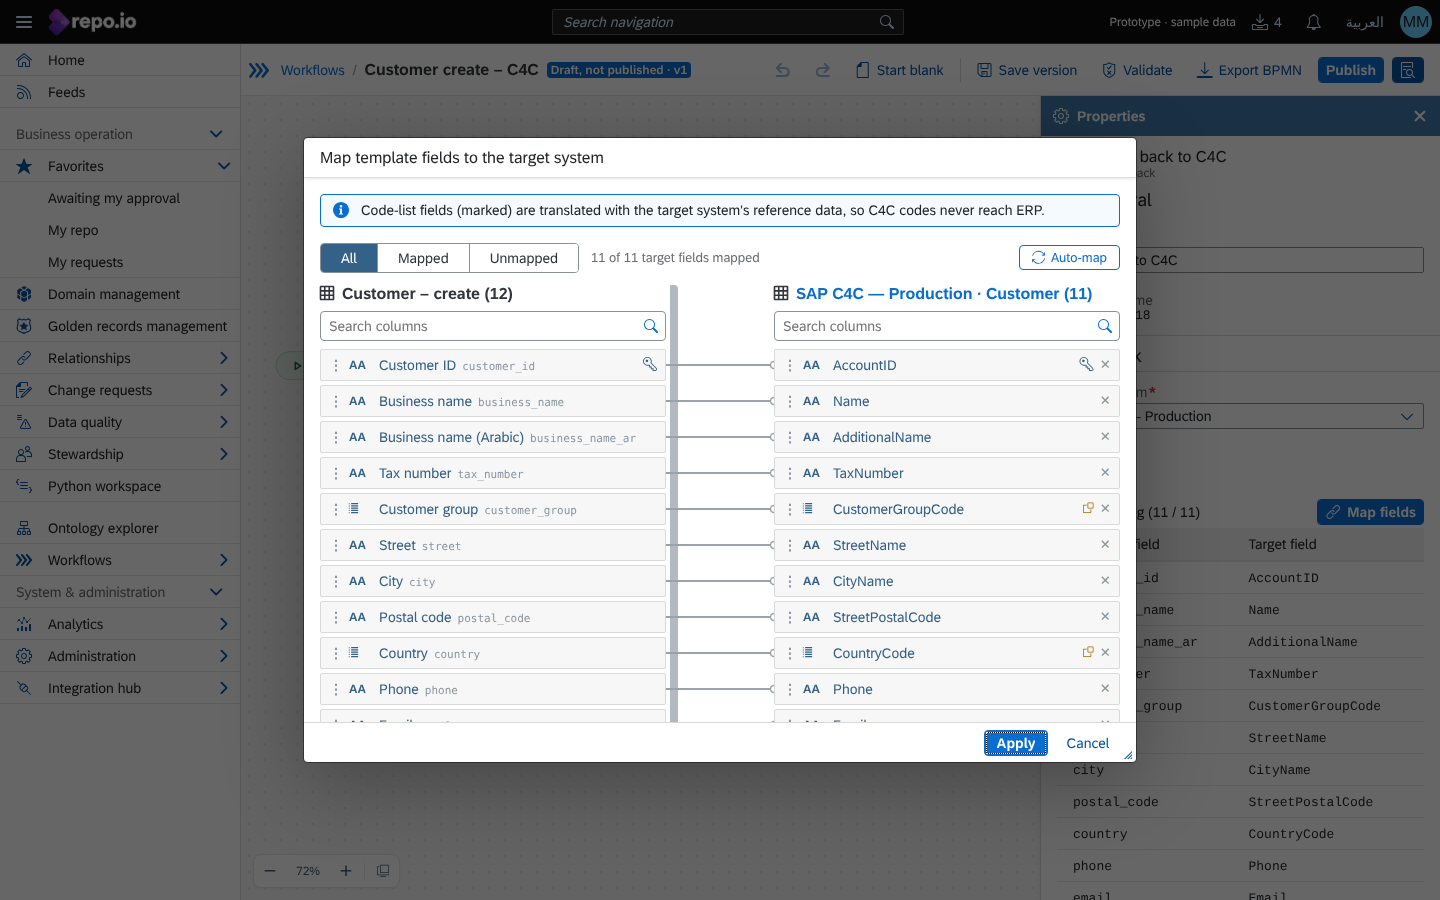
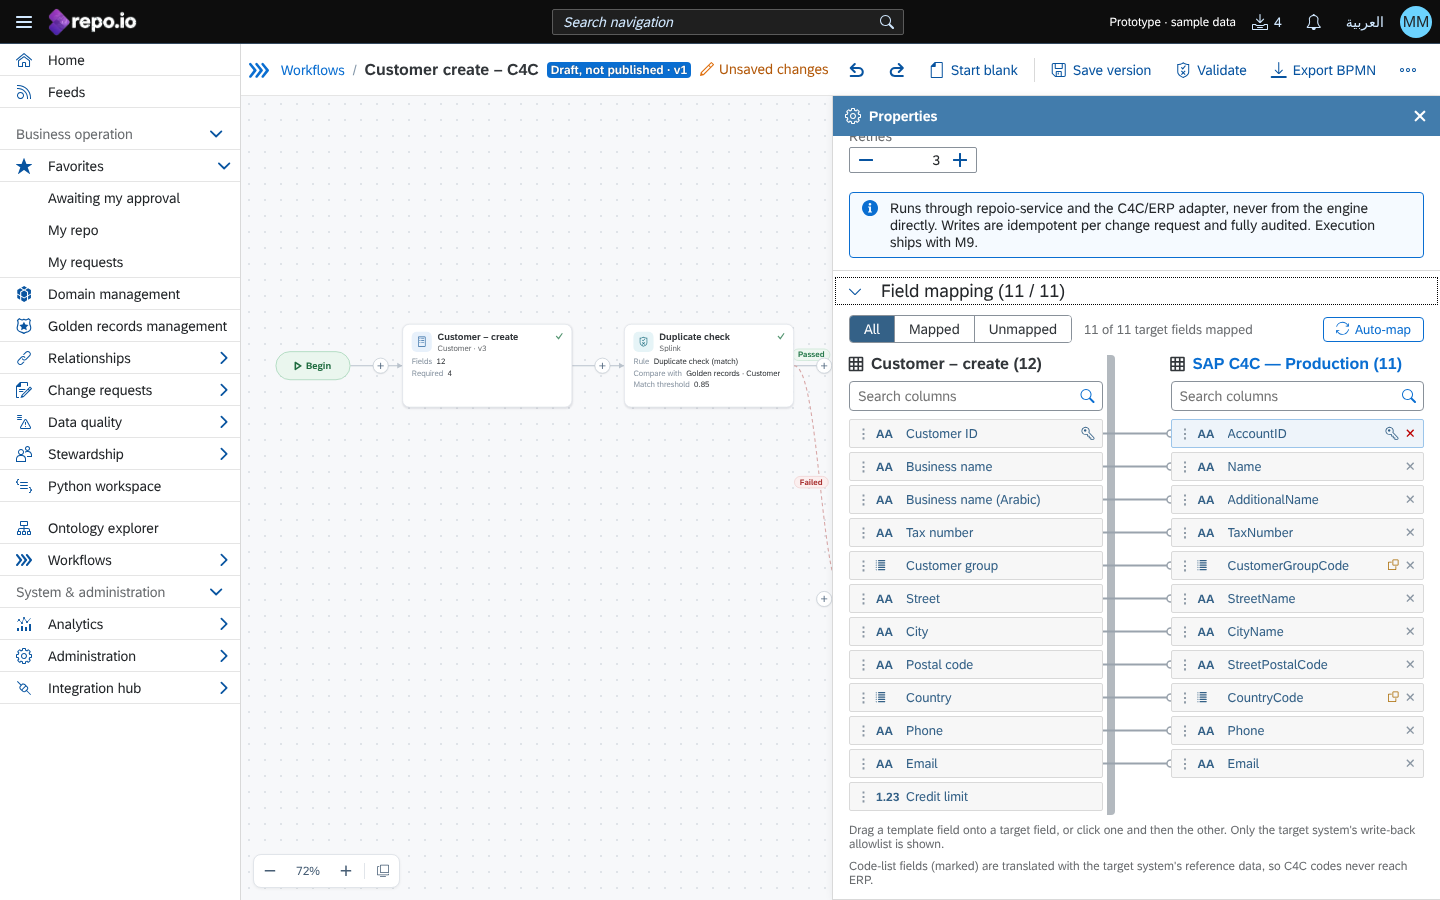
feat(repoio-ui): write-back field mapping in the side panel's Mapping section
- The Datasphere-style mapper moves out of its dialog into a "Mapping"
  section of the write-back step's properties panel. The panel widens
  while write-back is selected.
- Every change is kept on the step. Validation flags unmapped key fields.
- ADR-0002, J7 and the prototype README note where mapping lives.

Claude-Session: https://claude.ai/code/session_014MwTwj4qVcnTAy3XtzTwBt

diff --git a/repoio-ui/design-reference/openui5-prototype/webapp/controller/WorkflowDesigner.controller.js b/repoio-ui/design-reference/openui5-prototype/webapp/controller/WorkflowDesigner.controller.js
@@ -14,10 +14,9 @@ sap.ui.define([
 	"sap/m/MessageItem",
 	"sap/m/MessageStrip",
 	"sap/m/VBox",
-	"sap/ui/model/json/JSONModel",
-	"repoio/proto/control/FieldMapper"
+	"sap/ui/model/json/JSONModel"
 ], function (BaseController, Flow, People, MessageToast, MessageBox, Dialog, Button, TextArea, ResponsivePopover, List, StandardListItem,
-	MessagePopover, MessageItem, MessageStrip, VBox, JSONModel, FieldMapper) {
+	MessagePopover, MessageItem, MessageStrip, VBox, JSONModel) {
 	"use strict";
 
 	/*
@@ -299,7 +298,11 @@ sap.ui.define([
 				if (n.type === "writeBack") {
 					var tf = this._targetFields(p);
 					sel.targetCount = tf.length; sel.mappedCount = Object.keys(p.mapping || {}).length;
-					sel.mappedRows = Object.keys(p.mapping || {}).map(function (k) { return { target: k, source: p.mapping[k] }; });
+					var cn = this._conn(p.connection), tpl = this._tpl(this._templateKey()), T = this.text.bind(this);
+					sel.targetFields = tf; sel.mapping = Object.assign({}, p.mapping || {});
+					sel.mapTexts = { all: T("fd.map.all"), mapped: T("fd.map.mapped"), unmapped: T("fd.map.unmapped"), search: T("fd.map.search"),
+						src: tpl ? (this.lang() === "ar" ? tpl.ar : tpl.en) : T("fd.n.template"), tgt: cn ? cn.text : "",
+						unmap: T("fd.map.unmap"), valueMap: T("fd.map.valueMap"), auto: T("fd.map.auto"), hint: T("fd.map.hint"), count: T("fd.map.count") };
 					sel.noAllowlist = !!p.connection && !tf.length;
 				}
 				if (n.type === "template") {
@@ -408,39 +411,13 @@ sap.ui.define([
 			this.byId("codeEditor").insertText(lang === "sql" ? ":" + f : "record[\"" + f + "\"]");
 		},
 
-		/* Write-back: connection and the field mapping dialog (Datasphere style). */
+		/* Write-back: connection; the field mapping lives in the panel's Mapping section. */
 		onConnection: function (e) {
 			var k = e.getSource().getSelectedKey(), dom = this.viewModel().getProperty("/wf/domain");
 			this._upd({ connection: k, entity: dom, mapping: {} });
 		},
-		onMapFields: function () {
-			var that = this, id = this.viewModel().getProperty("/wf/sel/id"), n = this._flow.node(id), T = this.text.bind(this);
-			var cn = this._conn(n.props.connection), tpl = this._tpl(this._templateKey());
-			var mapper = new FieldMapper({
-				source: this._tplFields(), target: this._targetFields(n.props), mapping: Object.assign({}, n.props.mapping || {}),
-				editable: !this.viewModel().getProperty("/wf/readOnly"),
-				texts: { all: T("fd.map.all"), mapped: T("fd.map.mapped"), unmapped: T("fd.map.unmapped"), search: T("fd.map.search"),
-					src: tpl ? (this.lang() === "ar" ? tpl.ar : tpl.en) : T("fd.n.template"), tgt: (cn ? cn.text : "") + " · " + this._domainText(n.props.entity),
-					unmap: T("fd.map.unmap"), valueMap: T("fd.map.valueMap"), auto: T("fd.map.auto"), hint: T("fd.map.hint"), count: T("fd.map.count") }
-			});
-			var oDlg = new Dialog({
-				title: T("fd.map.title"), contentWidth: "52rem", contentHeight: "34rem", resizable: true, draggable: true,
-				content: [new VBox({ items: [
-					new MessageStrip({ text: T("fd.map.strip"), showIcon: true, type: "Information" }).addStyleClass("sapUiSmallMarginBottom"),
-					mapper
-				] }).addStyleClass("sapUiSmallMargin")],
-				beginButton: new Button({ text: T("common.apply"), type: "Emphasized", enabled: !this.viewModel().getProperty("/wf/readOnly"), press: function () {
-					var mp = mapper.getMapping(), keys = that._targetFields(n.props).filter(function (t) { return t.key; });
-					var missKey = keys.filter(function (k) { return !mp[k.name]; });
-					if (missKey.length) { MessageToast.show(T("fd.map.keyMissing", [missKey.map(function (k) { return k.name; }).join(", ")])); return; }
-					that._select(id); that._upd({ mapping: mp }); oDlg.close();
-				} }),
-				endButton: new Button({ text: T("common.cancel"), press: function () { oDlg.close(); } }),
-				afterClose: function () { oDlg.destroy(); }
-			});
-			this.getView().addDependent(oDlg);
-			oDlg.open();
-		},
+		/* Mapping section: every change is kept on the step (validation flags unmapped key fields). */
+		onMapping: function (e) { this._upd({ mapping: e.getParameter("mapping") }); },
 
 		/* ---------- insert and remove steps ---------- */
 

diff --git a/repoio-ui/design-reference/openui5-prototype/webapp/css/style.css b/repoio-ui/design-reference/openui5-prototype/webapp/css/style.css
@@ -374,3 +374,9 @@
 .fmUnmap:hover { color: #bb0000; }
 .fmHint { margin-top: 0.5rem; color: #6a6d70; font-size: 0.75rem; }
 .repoioWfPanel .sapMPanelContent > .sapMLabel, .repoioWfPanel .sapMPanelContent > .sapMText, .repoioWfPanel .sapMPanelContent > .sapMTitle { display: block; }
+/* Write-back selected: wider side panel so the Mapping section fits two columns (like Datasphere's side panel). */
+.repoioWfProps[data-wide="yes"] { flex: 0 0 38rem !important; width: 38rem; max-width: 38rem; }
+.repoioWfMapPanel .fmGap { flex-basis: 3.5rem; }
+.repoioWfMapPanel .fmSeg { padding: 0.3125rem 0.875rem; }
+.repoioWfMapPanel .fmItem { font-size: 0.8125rem; padding: 0.375rem 0.4375rem; }
+.repoioWfMapPanel .fmName small { display: none; }

diff --git a/repoio-ui/design-reference/openui5-prototype/README.md b/repoio-ui/design-reference/openui5-prototype/README.md
@@ -35,7 +35,7 @@ history. Every other navigation item opens the planned-page placeholder.
 | `#/domains` | Domain management | Catalog: dark search header (scope select + search), type tabs (all, domains, repositories, data sources, tables, favorites, recent), filter panel (domain, status), asset cards or list; quick view, copy link (`#/domains/{item}`), favorites |
 | `#/connections` | Connections (J9) | Datasphere Connections: registry table (logo, technical name, type, category, features, status, last sync, owner) with create / edit / delete / validate / pause / resume. "Create Connection" dialog in three steps like Datasphere: 1 choose type (filters by feature, category, source + type tiles for SAP HANA, SAP Cloud for Customer, Microsoft SQL Server, CSV / Excel), 2 configure properties (per-type form; secrets go to Key Vault, only a reference is kept), 3 business and technical name, owner, description. **Upload file** on a CSV / Excel connection opens the Datasphere "Import CSV File" dialog: file (.csv / .txt / .xlsx), first row as header, missing value as NULL or empty, delimiter (auto-detect) and encoding (UTF-8 / Windows-1256) or sheet, target entity (→ `raw.<entity>`), data preview with a source → target field mapping per column (auto-mapped, required fields and duplicates checked); import sends a batch to push ingest, never to golden records. Parsing runs in the browser (`util/tabular.js`, no third-party parser); the server re-validates every row |
 | `#/ontology` | Ontology Explorer (J11, J12) | Datasphere Graph Builder: left tabs (concept tree with relationships and data properties; relationship type catalog grouped by from → to pair), Cytoscape.js graph in the centre (show/hide relationship types, semantic properties and is-a; network, hierarchy or rings layout; zoom, fit, focus mode), details panel on the right (concept: business name, URI local name, description, parent concepts, owner, links to canonical entity / glossary / KPI / catalog asset, data properties, relationships; relationship: from → to, inverse, cardinality, attributes, governance note). Concepts / Records switch: from a concept or a relationship type, "View record links" drills down to the governed links between golden-record codes (e.g. C-10001 parent of C-10002) as a graph or a table, filtered by domain, type and code; a link shows its attributes, status (active / pending approval) and provenance (change request or match confirmation). Versions (draft / in review / published / retired): new concept and new relationship type go into the draft, which is submitted for review; validate (SHACL-style checks), preset SPARQL queries on the secured endpoint, Turtle export |
-| `#/workflows/new` | New workflow (J7, ADR-0002) | Repo.io flow designer like the reference image: step cards on a dotted canvas with "+" on every path, automatic lane layout (RTL mirrored), zoom bar; properties panel per step. Steps: Begin, Template (one per workflow, its fields drive everything after), Validation (Great Expectations rule on template fields, or Splink duplicate check against golden records or a source connection, threshold), Approval (people or team, any / all, SLA, escalation), Script (Python or read-only SQL written in the step with CodeMirror 6, template fields as autocomplete and chips), Write-back (connection, Datasphere-style field mapper to the target allowlist with All / Mapped / Unmapped, search, auto-map, code-list value translation), Notification (in-app and/or email, recipients, message variables), Condition (yes / no), End. Validate, undo / redo, save version, publish (immutable), new version, Export BPMN (the compiled BPMN 2.0 that Flowable receives) |
+| `#/workflows/new` | New workflow (J7, ADR-0002) | Repo.io flow designer like the reference image: step cards on a dotted canvas with "+" on every path, automatic lane layout (RTL mirrored), zoom bar; properties panel per step. Steps: Begin, Template (one per workflow, its fields drive everything after), Validation (Great Expectations rule on template fields, or Splink duplicate check against golden records or a source connection, threshold), Approval (people or team, any / all, SLA, escalation), Script (Python or read-only SQL written in the step with CodeMirror 6, template fields as autocomplete and chips), Write-back (connection, and a Mapping section in the side panel: Datasphere-style field mapper to the target allowlist with All / Mapped / Unmapped, search, auto-map, code-list value translation), Notification (in-app and/or email, recipients, message variables), Condition (yes / no), End. Validate, undo / redo, save version, publish (immutable), new version, Export BPMN (the compiled BPMN 2.0 that Flowable receives) |
 | `#/page/{key}` | Every other page in `docs/ui-pages.md` | Planned-page placeholder with the page scope and journey |
 
 ## Entry points

diff --git a/docs/user-journey.md b/docs/user-journey.md
@@ -227,7 +227,8 @@ current entity schema → blocked at save with the schema rule cited.
      write the code in the step, with the template's field names offered;
      runs in the isolated workers as the requester (M8).
    - **Write-back** — source system, then map template fields to the
-     target system's allowlisted fields in a mapper (code lists
+     target system's allowlisted fields in the side panel's **Mapping**
+     section (code lists
      translated by reference data); conflict → review (execution M9).
    - **Notification** — in-app alert and/or email to the requester,
      earlier approvers, teams or people.

diff --git a/docs/decisions/ADR-0002-repoio-flow-designer.md b/docs/decisions/ADR-0002-repoio-flow-designer.md
@@ -58,7 +58,8 @@ Notification → End, with Condition branches.
      passed / failed.
    - **Write-back** — source system (connections with write-back), the
      template's entity, and a field mapping from template fields to the
-     target system's write-back allowlist (Datasphere-style mapper).
+     target system's write-back allowlist, edited in the **Mapping**
+     section of the step's side panel (Datasphere-style mapper).
      Code-list fields are translated with the target system's reference
      data. Conflict → review, retries. Execution unchanged (README §2.4,
      CLAUDE.md rule 13).
